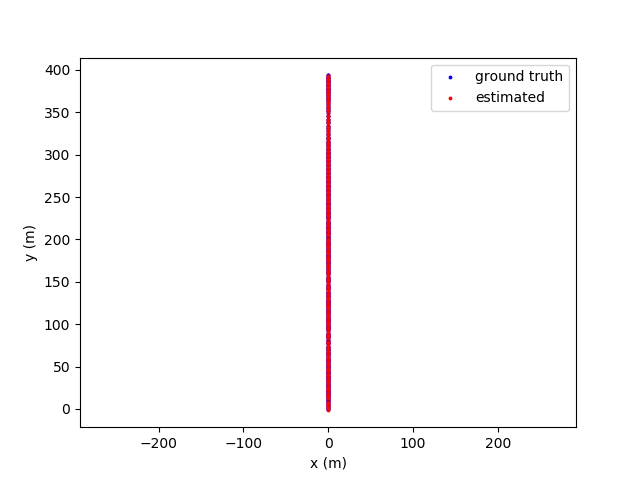
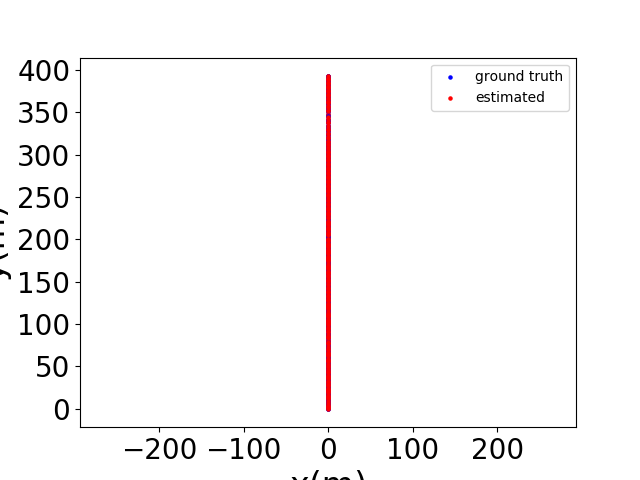
new updates

diff --git a/evaluate_multiple_sequences.py b/evaluate_multiple_sequences.py
@@ -1,0 +1,155 @@
+# This script contains code created for eval_kitti.py in SuperPoint-SLAM at https://github.com/KinglittleQ/SuperPoint_SLAM
+# and alterned for use in Twilight-SuperPoint-SLAM at https://github.com/TwilightSLAM/Twilight_SuperPoint_SLAM
+
+
+import numpy as np
+import matplotlib.pyplot as plt
+import sys, os
+
+def gen_data(ground_time, res_time, ground_data):
+	ground_time = ground_time
+	res_time = res_time
+	ground_data = ground_data
+
+	time_mark = 0
+	time = []
+
+	data_1 = []
+
+	for num in range(len(ground_data)):
+		data_1.append(np.concatenate(([ground_time[num]], ground_data[num])))
+
+	data_2 = []
+
+
+	for num in range(len(res_time)):
+		while not np.allclose(data_1[time_mark][0], res_time[num][0]):
+			time_mark+=1
+		data_2.append(data_1[time_mark])
+
+	return data_2
+
+
+def get_coo(data):
+	points = [[],[],[]]
+	for num in range(len(data)):
+		points[0].append(data[num][4])
+		points[1].append(data[num][8])
+		points[2].append(data[num][12])
+	return points
+
+
+def get_points(data):
+	points = [[],[],[]]
+	for num in range(len(data)):
+		points[0].append(data[num][1])
+		points[1].append(data[num][2])
+		points[2].append(data[num][3])
+	return points
+
+
+def align(model,data):
+    """Align two trajectories using the method of Horn (closed-form).
+    
+    Input:
+    model -- first trajectory (3xn)
+    data -- second trajectory (3xn)
+    
+    Output:
+    rot -- rotation matrix (3x3)
+    trans -- translation vector (3x1)
+    trans_error -- translational error per point (1xn)
+    
+    """
+    np.set_printoptions(precision=3,suppress=True)
+    model_mean=[[model.mean(1)[0]], [model.mean(1)[1]], [model.mean(1)[2]]]
+    data_mean=[[data.mean(1)[0]], [data.mean(1)[1]], [data.mean(1)[2]]]
+    model_zerocentered = model - model_mean
+    data_zerocentered = data - data_mean
+    
+    W = np.zeros( (3,3) )
+    for column in range(model.shape[1]):
+        W += np.outer(model_zerocentered[:,column],data_zerocentered[:,column])
+    U,d,Vh = np.linalg.linalg.svd(W.transpose())
+    S = np.matrix(np.identity( 3 ))
+    if(np.linalg.det(U) * np.linalg.det(Vh)<0):
+        S[2,2] = -1
+    rot = U*S*Vh
+
+    rotmodel = rot*model_zerocentered
+    dots = 0.0
+    norms = 0.0
+
+    for column in range(data_zerocentered.shape[1]):
+        dots += np.dot(data_zerocentered[:,column].transpose(),rotmodel[:,column])
+        normi = np.linalg.norm(model_zerocentered[:,column])
+        norms += normi*normi
+
+    s = float(dots/norms)    
+
+    # print ("scale: %f " % s) 
+    
+    trans = data_mean - s*rot * model_mean
+    
+    model_aligned = s*rot * model + trans
+    alignment_error = model_aligned - data
+    
+    trans_error = np.sqrt(np.sum(np.multiply(alignment_error,alignment_error),0)).A[0]
+        
+    return rot,trans,trans_error, s
+
+
+
+
+if __name__ == '__main__':
+
+	# evaluate KITTI seuqences
+	kitti_trajectories_path = os.getcwd() + "/evaluations/estimated_trajectories/KITTI/"
+	for path in os.listdir(kitti_trajectories_path): #Path to the KeyFrameTrajectory.txt file
+		
+		#Path to the times.txt in KITTI dataset
+		sequence = path.split("_")[0]
+		ground_time = np.loadtxt(os.getcwd() + '/datasets/KITTI/data_odometry_color/dataset/sequences/'+sequence+'/times.txt')
+		res_time = np.loadtxt(kitti_trajectories_path + path)
+	
+		#Path to the ground truth file
+		ground_data = np.loadtxt(os.getcwd() + '/datasets/KITTI/data_odometry_color/dataset/poses/'+sequence+'.txt')
+		data= gen_data(ground_time, res_time, ground_data)
+		ground_points = np.asarray(get_coo(data))
+		re_points = np.asarray(get_points(res_time))
+		rot,trans,trans_error,s = align(re_points, ground_points)
+		re_fpoints = s*rot*re_points+trans
+
+		# save plot of ground truth and estimated trajectories
+		name = path.split(".")[0]
+		plt.axis('equal')
+		ground_truth = plt.scatter(ground_points[0], ground_points[2], s=5, c='blue')
+		estimated = plt.scatter(list(re_fpoints[0]), list(re_fpoints[2]), s=5, c='red')
+		plt.legend([ground_truth,estimated],["ground truth","estimated"])
+		plt.xlabel('x(m)', fontsize=24)
+		plt.ylabel('y(m)', fontsize=24) 
+		plt.xticks(fontsize=20)
+		plt.yticks(fontsize=20)
+		plt.savefig(os.getcwd() + '/evaluations/plots/'+name+'.png')
+		
+		# save metrics txt file
+		times_file = open(os.getcwd() + '/evaluations/metrics/'+name+'.txt',"w+")
+		times_file.write("compared_pose_pairs %d pairs\r\n"%(len(trans_error)))
+		times_file.write("absolute_translational_error.rmse %f m\r\n"%np.sqrt(np.dot(trans_error,trans_error) / len(trans_error)))
+		times_file.write("absolute_translational_error.mean %f m\r\n"%np.mean(trans_error))
+		times_file.write("absolute_translational_error.median %f m\r\n"%np.median(trans_error))
+		times_file.write("absolute_translational_error.std %f m\r\n"%np.std(trans_error))
+		times_file.write("absolute_translational_error.min %f m\r\n"%np.min(trans_error))
+		times_file.write("absolute_translational_error.max %f m\r\n"%np.max(trans_error))
+
+		# print ("compared_pose_pairs %d pairs"%(len(trans_error)))
+		# print ("absolute_translational_error.rmse %f m"%np.sqrt(np.dot(trans_error,trans_error) / len(trans_error)))
+		# print ("absolute_translational_error.mean %f m"%np.mean(trans_error))
+		# print ("absolute_translational_error.median %f m"%np.median(trans_error))
+		# print ("absolute_translational_error.std %f m"%np.std(trans_error))
+		# print ("absolute_translational_error.min %f m"%np.min(trans_error))
+		# print ("absolute_translational_error.max %f m"%np.max(trans_error))
+		
+		#plt.show()
+
+

diff --git a/run_multiple_sequences.py b/run_multiple_sequences.py
@@ -35,7 +35,7 @@ sequences_P001 = ["abandonedfactory_sample_P001/P001"]
 kitti_sequences = []
 tartan_sequences = []
 
-kitti_sequences = sequences_04
+kitti_sequences = ["04_zero"]
 
 
 # set directory to Twighlight-SLAM
